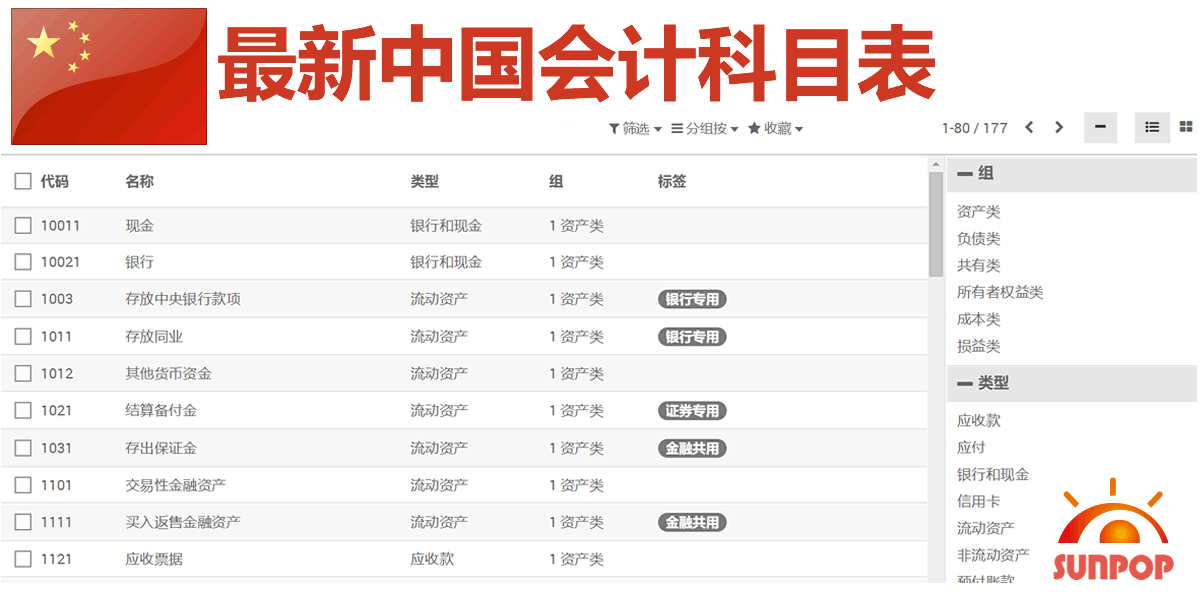
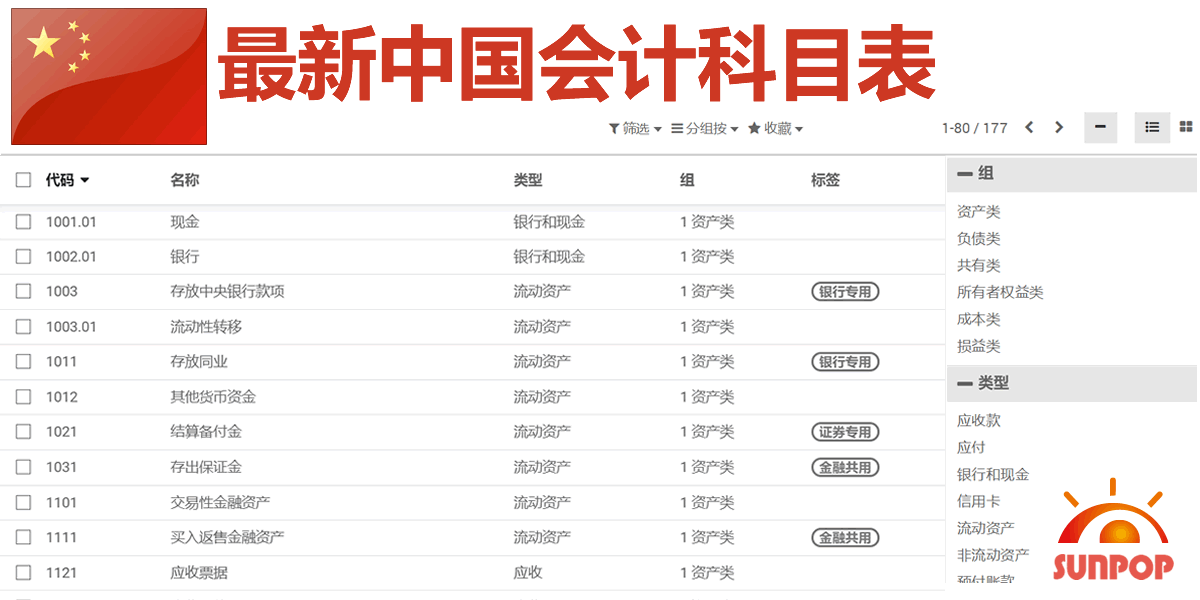
fix account

diff --git a/l10n_cn_standard_lastest/static/description/index.html b/l10n_cn_standard_lastest/static/description/index.html
@@ -4,7 +4,7 @@
             <h2 class="oe_slogan">App Latest Chinese Account chart 2018.</h2>
             <h3 class="oe_slogan">Set all chinese default value. Like Default country, timezone, currency, partner... </h3>
             <div class="oe_row">
-                <h3>Lastest update: v11.0.11.07,  2018-11-07</h3>
+                <h3>Lastest update: v12.0.11.15,  2018-11-07</h3>
                 <div class="oe_span12">
                     <img class="oe_demo oe_picture oe_screenshot" src="banner.png">
                 </div>

diff --git a/l10n_cn_standard_lastest/models/res_currency.py b/l10n_cn_standard_lastest/models/res_currency.py
@@ -1,0 +1,50 @@
+# -*- coding: utf-8 -*-
+from odoo import api, fields, models, exceptions, _
+
+
+class ResCurrency(models.Model):
+    _inherit = 'res.currency'
+
+    def rmb_upper(self, value):
+        """
+        人民币大写
+        传入浮点类型的值返回 unicode 字符串
+        :param 传入阿拉伯数字
+        :return 返回值是对应阿拉伯数字的绝对值的中文数字
+        """
+        if self.name != 'CNY':
+            return;
+        rmbmap = [u"零", u"壹", u"贰", u"叁", u"肆", u"伍", u"陆", u"柒", u"捌", u"玖"]
+        unit = [u"分", u"角", u"元", u"拾", u"佰", u"仟", u"万", u"拾", u"佰", u"仟", u"亿",
+                u"拾", u"佰", u"仟", u"万", u"拾", u"佰", u"仟", u"兆"]
+        # 冲红负数处理
+        xflag = 0
+        if value < 0:
+            xflag = value
+            value = abs(value)
+        # 先把value 数字进行格式化保留两位小数，转成字符串然后去除小数点
+        nums = map(int, list(str('%0.2f' % value).replace('.', '')))
+        words = []
+        zflag = 0  # 标记连续0次数，以删除万字，或适时插入零字
+        start = len(nums) - 3
+        for i in range(start, -3, -1):  # 使i对应实际位数，负数为角分
+            # 大部分情况对应数字不等于零 或者是刚开始循环
+            if 0 != nums[start - i] or len(words) == 0:
+                if zflag:
+                    words.append(rmbmap[0])
+                    zflag = 0
+                words.append(rmbmap[nums[start - i]])   # 数字对应的中文字符
+                words.append(unit[i + 2])               # 列表此位置的单位
+            # 控制‘万/元’ 万和元比较特殊，如2拾万和2拾1万 无论有没有这个1 万字是必须的
+            elif 0 == i or (0 == i % 4 and zflag < 3):
+                # 上面那种情况定义了 2拾1万 的显示 这个是特殊对待的 2拾万（一类）的显示
+                words.append(unit[i + 2])
+                # 元（控制条件为 0 == i ）和万(控制条为(0 == i % 4 and zflag < 3))的情况的处理是一样的
+                zflag = 0
+            else:
+                zflag += 1
+        if words[-1] != unit[0]:  # 结尾非‘分’补整字 最小单位 如果最后一个字符不是最小单位(分)则要加一个整字
+            words.append(u"整")
+        if xflag < 0:             # 如果为负数则要在数字前面加上‘负’字
+            words.insert(0, u"负")
+        return ''.join(words)

diff --git a/app_base_chinese/models/res_currency.py b/app_base_chinese/models/res_currency.py
@@ -1,0 +1,50 @@
+# -*- coding: utf-8 -*-
+from odoo import api, fields, models
+
+
+class ResCurrency(models.Model):
+    _inherit = 'res.currency'
+
+    def rmb_upper(self, value):
+        """
+        人民币大写
+        传入浮点类型的值返回 unicode 字符串
+        :param 传入阿拉伯数字
+        :return 返回值是对应阿拉伯数字的绝对值的中文数字
+        """
+        if self.name != 'CNY':
+            return;
+        rmbmap = [u"零", u"壹", u"贰", u"叁", u"肆", u"伍", u"陆", u"柒", u"捌", u"玖"]
+        unit = [u"分", u"角", u"元", u"拾", u"佰", u"仟", u"万", u"拾", u"佰", u"仟", u"亿",
+                u"拾", u"佰", u"仟", u"万", u"拾", u"佰", u"仟", u"兆"]
+        # 冲红负数处理
+        xflag = 0
+        if value < 0:
+            xflag = value
+            value = abs(value)
+        # 先把value 数字进行格式化保留两位小数，转成字符串然后去除小数点
+        nums = map(int, list(str('%0.2f' % value).replace('.', '')))
+        words = []
+        zflag = 0  # 标记连续0次数，以删除万字，或适时插入零字
+        start = len(nums) - 3
+        for i in range(start, -3, -1):  # 使i对应实际位数，负数为角分
+            # 大部分情况对应数字不等于零 或者是刚开始循环
+            if 0 != nums[start - i] or len(words) == 0:
+                if zflag:
+                    words.append(rmbmap[0])
+                    zflag = 0
+                words.append(rmbmap[nums[start - i]])   # 数字对应的中文字符
+                words.append(unit[i + 2])               # 列表此位置的单位
+            # 控制‘万/元’ 万和元比较特殊，如2拾万和2拾1万 无论有没有这个1 万字是必须的
+            elif 0 == i or (0 == i % 4 and zflag < 3):
+                # 上面那种情况定义了 2拾1万 的显示 这个是特殊对待的 2拾万（一类）的显示
+                words.append(unit[i + 2])
+                # 元（控制条件为 0 == i ）和万(控制条为(0 == i % 4 and zflag < 3))的情况的处理是一样的
+                zflag = 0
+            else:
+                zflag += 1
+        if words[-1] != unit[0]:  # 结尾非‘分’补整字 最小单位 如果最后一个字符不是最小单位(分)则要加一个整字
+            words.append(u"整")
+        if xflag < 0:             # 如果为负数则要在数字前面加上‘负’字
+            words.insert(0, u"负")
+        return ''.join(words)

diff --git a/l10n_cn_standard_lastest/models/account_chart_template.py b/l10n_cn_standard_lastest/models/account_chart_template.py
@@ -15,7 +15,8 @@
 # http://www.sunpop.cn/odoo10_developer_document_offline/
 # description:
 
-from odoo import api, fields, models, exceptions, _
+from odoo import api, fields, models, _
+from odoo.exceptions import UserError
 
 class AccountChartTemplate(models.Model):
     _inherit = "account.chart.template"
@@ -33,5 +34,38 @@ class AccountChartTemplate(models.Model):
             })
         return res
 
-    
+    @api.model
+    def _prepare_transfer_account_template(self):
+        ''' Prepare values to create the transfer account that is an intermediary account used when moving money
+        from a liquidity account to another.
+
+        :return:    A dictionary of values to create a new account.account.
+        '''
+        # 分隔符，金蝶为 "."，用友为""，注意odoo中一级科目，现金默认定义是4位头，银行是6位头
+        delimiter = '.'
+        digits = self.code_digits
+        prefix = self.transfer_account_code_prefix or ''
+        # Flatten the hierarchy of chart templates.
+        chart_template = self
+        chart_templates = self
+        while chart_template.parent_id:
+            chart_templates += chart_template.parent_id
+            chart_template = chart_template.parent_id
+        new_code = ''
+        for num in range(1, 100):
+            new_code = str(prefix.ljust(digits - 1, '0')) + delimiter + '%02d' % (num)
+            rec = self.env['account.account.template'].search(
+                [('code', '=', new_code), ('chart_template_id', 'in', chart_templates.ids)], limit=1)
+            if not rec:
+                break
+        else:
+            raise UserError(_('Cannot generate an unused account code.'))
+        current_assets_type = self.env.ref('account.data_account_type_current_assets', raise_if_not_found=False)
+        return {
+            'name': _('Liquidity Transfer'),
+            'code': new_code,
+            'user_type_id': current_assets_type and current_assets_type.id or False,
+            'reconcile': True,
+            'chart_template_id': self.id,
+        }
 

diff --git a/l10n_cn_standard_lastest/models/account_journal.py b/l10n_cn_standard_lastest/models/account_journal.py
@@ -1,0 +1,41 @@
+# -*- coding: utf-8 -*-
+
+from odoo import api, fields, models, _
+
+
+# 调整初始化算法
+class AccountJournal(models.Model):
+    _inherit = "account.journal"
+
+    @api.model
+    def _prepare_liquidity_account(self, name, company, currency_id, type):
+        '''
+        This function prepares the value to use for the creation of the default debit and credit accounts of a
+        liquidity journal (created through the wizard of generating COA from templates for example).
+
+        :param name: name of the bank account
+        :param company: company for which the wizard is running
+        :param currency_id: ID of the currency in which is the bank account
+        :param type: either 'cash' or 'bank'
+        :return: mapping of field names and values
+        :rtype: dict
+        '''
+        digits = 6
+        chart = self.company_id.chart_template_id
+        if chart:
+            digits = int(chart.code_digits)
+        # Seek the next available number for the account code
+        if type == 'bank':
+            account_code_prefix = company.bank_account_code_prefix or ''
+        else:
+            account_code_prefix = company.cash_account_code_prefix or company.bank_account_code_prefix or ''
+        digits = len(account_code_prefix)
+
+        liquidity_type = self.env.ref('account.data_account_type_liquidity')
+        return {
+            'name': name,
+            'currency_id': currency_id or False,
+            'code': self.env['account.account']._search_new_account_code(company, digits, account_code_prefix),
+            'user_type_id': liquidity_type and liquidity_type.id or False,
+            'company_id': company.id,
+        }

diff --git a/l10n_cn_standard_lastest/models/account_account.py b/l10n_cn_standard_lastest/models/account_account.py
@@ -15,8 +15,8 @@
 # http://www.sunpop.cn/odoo10_developer_document_offline/
 # description:
 
-from odoo import api, fields, models, exceptions, _
-
+from odoo import api, fields, models, _
+from odoo.exceptions import UserError, ValidationError
 
 class AccountAccount(models.Model):
     _inherit = ['account.account']
@@ -30,4 +30,15 @@ class AccountAccount(models.Model):
     child_id = fields.One2many('account.account', 'parent_id', 'Child Chart')
     parent_left = fields.Integer('Left Parent', index=1)
     parent_right = fields.Integer('Right Parent', index=1)
+
+    @api.model
+    def _search_new_account_code(self, company, digits, prefix):
+        # 分隔符，金蝶为 "."，用友为""，注意odoo中一级科目，现金默认定义是4位头，银行是6位头
+        delimiter = '.'
+        for num in range(1, 100):
+            new_code = str(prefix.ljust(digits - 1, '0')) + delimiter + '%02d' % (num)
+            rec = self.search([('code', '=', new_code), ('company_id', '=', company.id)], limit=1)
+            if not rec:
+                return new_code
+        raise UserError(_('Cannot generate an unused account code.'))
 

diff --git a/l10n_cn_standard_lastest/__manifest__.py b/l10n_cn_standard_lastest/__manifest__.py
@@ -32,7 +32,8 @@
     3. 补充分类及标签信息。
     4. 更新税信息。
     5. 增加树状结构，可设置上级科目，配合 "app_web_superbar" 使用可轻易实现树状导航。
-    6. 注意，必须在没有业务数据，没有会计科目的初始环境。可以使用 "app_odoo_customize" 模块清除财务数据，重置会计科目。
+    6. 使用金蝶的会计科目命名法对多级科目进行初始化。可自行调整为用友科目命名法
+    7. 注意，必须在没有业务数据，没有会计科目的初始环境。可以使用 "app_odoo_customize" 模块清除财务数据，重置会计科目。
      
     如果是多语种环境需要自行更改翻译，主要体现在16%增值税处理。
     广州尚鹏，Sunpop.cn

diff --git a/app_base_chinese/models/account.py b/app_base_chinese/models/account.py
@@ -1,0 +1,17 @@
+# -*- coding: utf-8 -*-
+
+from odoo.exceptions import UserError, ValidationError
+from odoo import api, fields, models, _
+
+class AccountAccount(models.Model):
+    _inherit = "account.account"
+
+    @api.model
+    def _search_new_account_code(self, company, digits, prefix):
+        for num in range(1, 100):
+            new_code = str(prefix.ljust(digits - 1, '0')) + str(num)
+            rec = self.search([('code', '=', new_code), ('company_id', '=', company.id)], limit=1)
+            if not rec:
+                return new_code
+        raise UserError(_('Cannot generate an unused account code.'))
+

diff --git a/app_product_superbar/__manifest__.py b/app_product_superbar/__manifest__.py
@@ -17,7 +17,7 @@
 
 {
     'name': "App product browse by category navigator",
-    'version': '11.0.10.15',
+    'version': '12.0.11.15',
     'author': 'Sunpop.cn',
     'category': 'Base',
     'website': 'http://www.sunpop.cn',

diff --git a/l10n_cn_standard_lastest/models/__init__.py b/l10n_cn_standard_lastest/models/__init__.py
@@ -3,6 +3,9 @@
 from . import account_account_template
 from . import account_account
 from . import account_chart_template
+from . import account_journal
+from . import res_currency
+
 
 
 

diff --git a/app_account_superbar_chinese/__manifest__.py b/app_account_superbar_chinese/__manifest__.py
@@ -58,5 +58,5 @@
     'post_init_hook': 'post_init_hook',
     'installable': True,
     'application': True,
-    'auto_install': True,
+    'auto_install': False,
 }
